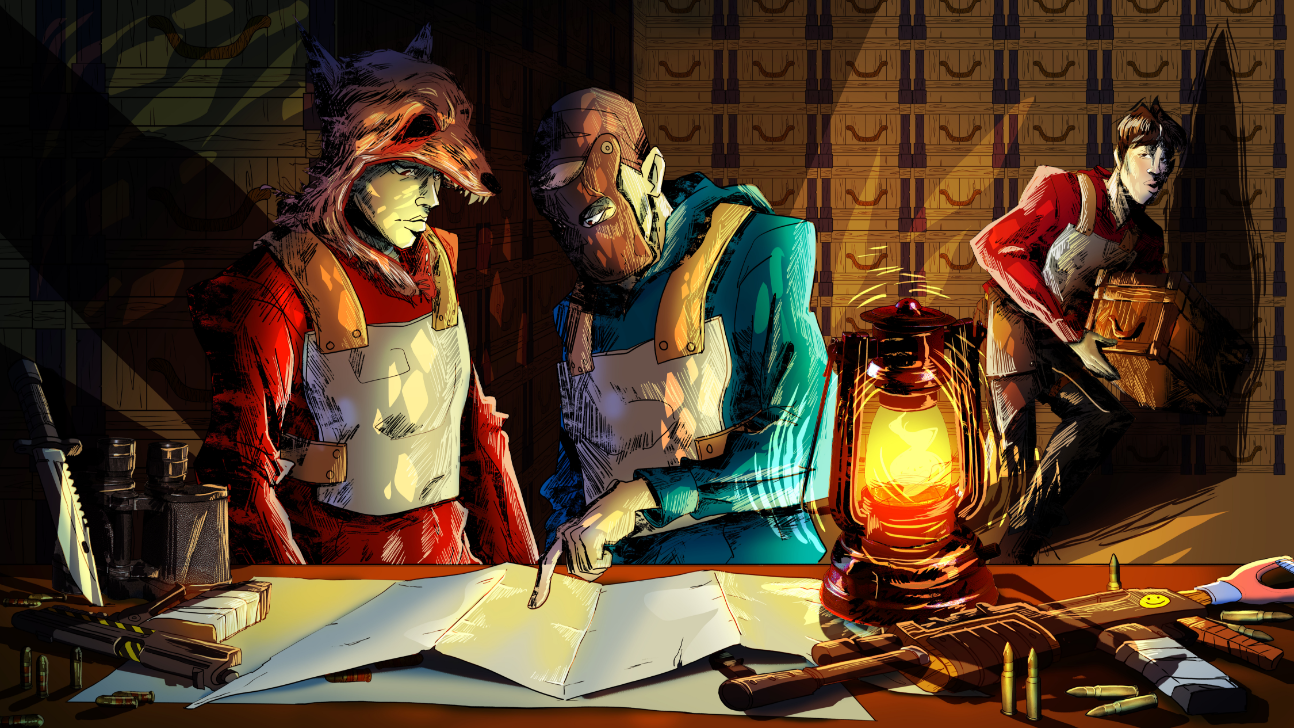
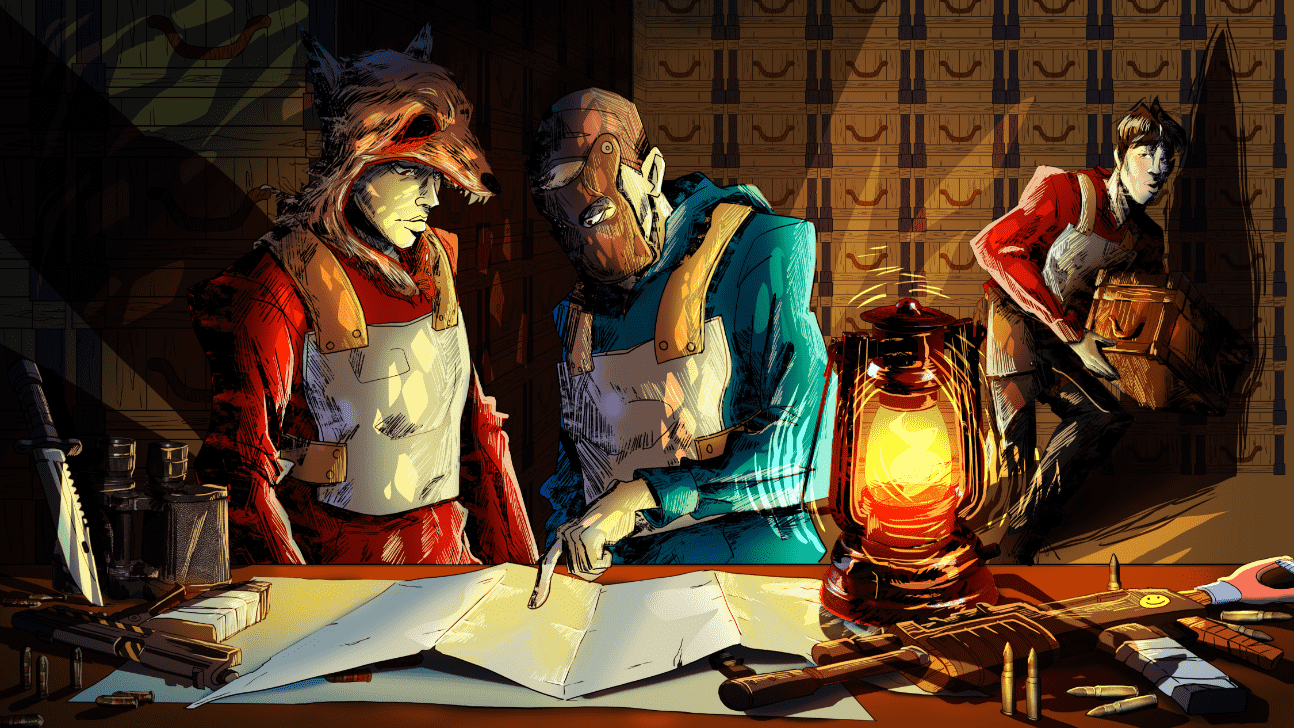
optimized images

diff --git a/components/Discord.vue b/components/Discord.vue
@@ -1,11 +1,11 @@
 <template>
-    <section class="h-[600px] discord-section relative">
+    <section class="min-h-[600px] discord-section relative flex items-center">
         <div class="bg-[#483d8b] bg-opacity-70 w-full h-full absolute"></div>
         <div class="relative h-full z-10 w-full flex items-center justify-center">
             <div class="flex flex-col text-center text-white">
                 <h1 class="text-7xl mb-2">Join our Rust community <br> on Discord</h1>
-                <p class="mb-2">Connect with other players, share tips and experiences, and be a part of <br> a thriving community of Rust enthusiasts.</p>
-                <NuxtLink to="https://discord.gg/NPUJzHmT6y" class="bg-[#7289DA] w-fit m-auto py-2 px-6 text-2xl inline-block rounded-sm" rel="nofollow">Join Now</NuxtLink>
+                <p class="mb-2">Engage with fellow Rust enthusiasts, share valuable insights and knowledge, <br> and foster a sense of community by joining our <br> exclusive Discord channel.  Connect with other players <br> and partake in an interactive environment  that <br> fosters meaningful conversations and enriches <br> your  Rust gaming experience.</p>
+                <NuxtLink to="https://discord.gg/NPUJzHmT6y" class="bg-[#7289DA] w-fit m-auto py-2 px-6 text-2xl inline-block rounded-sm flex items-center" rel="nofollow">Join Now</NuxtLink>
             </div>
         </div>
     </section>

diff --git a/pages/index.vue b/pages/index.vue
@@ -9,4 +9,14 @@
             </div>
         </div>
     </header>
+    <section class="bg-dark w-full">
+        <div class="max-w-4xl m-auto py-12 px-4 grid grid-cols-2 gap-6 items-center">
+            <div class="py-6 pl-8 border-l border-white/10">
+                <h2 class="text-4xl text-white mb-3 flex items-center">Store <img class="ml-3" src="@/assets/images/icons/gears.png" width="50" alt="Gear"></h2>
+                <p class="text-white/80 text-sm leading-7 mb-3">Enhance your Rust gaming endeavor with our esteemed store's VIP membership, providing you with exclusive in-game merchandise such as items, weapons, and skins. Elevate your gameplay experience and embark on the ultimate Rust adventure by becoming a VIP member today</p>
+                <NuxtLink to="/" class="bg-white py-2 px-4 inline-block">Go Shopping</NuxtLink>
+            </div>
+            <img src="@/assets/images/store.webp" alt="Rust Scientist">
+        </div>
+    </section>
 </template>

diff --git a/assets/css/tailwind.css b/assets/css/tailwind.css
@@ -10,12 +10,10 @@
 h1,h2,h3,h4, a, .head{
     font-family: 'Bebas Neue', cursive;
 }
-
 header{
     background-image: url('../images/background.png');
     @apply w-full h-screen bg-center bg-cover relative;
 }
-
 .discord-section{
     background-image: url('../images/discord.png');
     @apply bg-cover bg-center;
